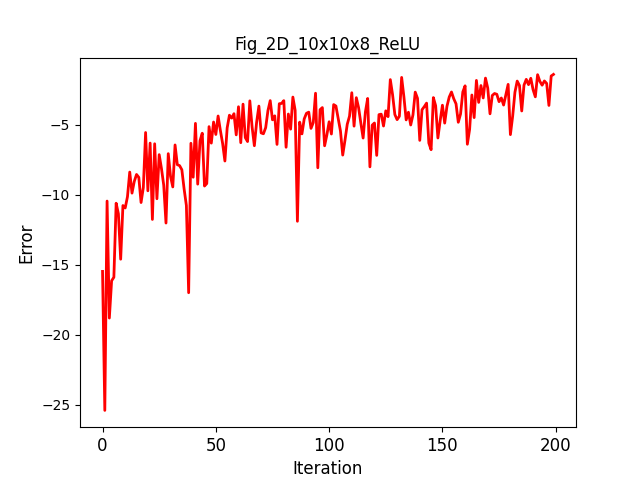
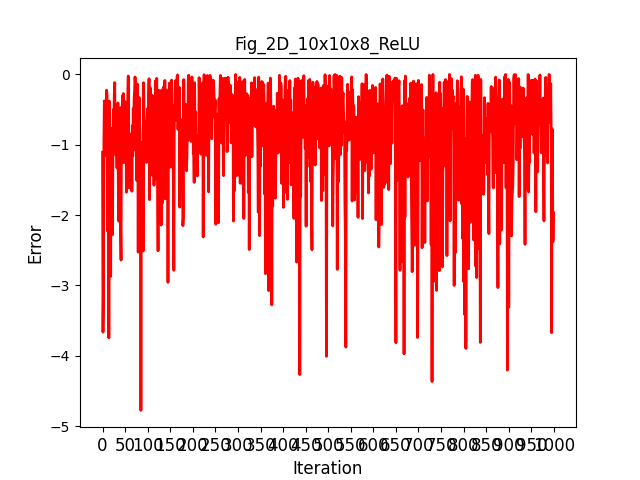
minor

diff --git a/genetic_algorithm.py b/genetic_algorithm.py
@@ -38,7 +38,7 @@ def select_mating_pool(pop, fitness, num_parents):
 		except IndexError:
 			max_fitness_idx = 0
 		parents[parent_num, :] = pop[max_fitness_idx, :]
-		fitness[max_fitness_idx] = -1.0e12
+		fitness[max_fitness_idx] = -1.0e12		# the worst fitness value
 	return parents
 
 def crossover(parents, offspring_size):
@@ -48,9 +48,9 @@ def crossover(parents, offspring_size):
 
 	for k in range(offspring_size[0]):
 		# Index of the first parent to mate.
-		parent1_idx = k%parents.shape[0]
+		parent1_idx = k % parents.shape[0]
 		# Index of the second parent to mate.
-		parent2_idx = (k+1)%parents.shape[0]
+		parent2_idx = (k + 1) % parents.shape[0]
 		# The new offspring will have its first half of its genes taken from the first parent.
 		offspring[k, 0:crossover_point] = parents[parent1_idx, 0:crossover_point]
 		# The new offspring will have its second half of its genes taken from the second parent.

diff --git a/evolve_Neuromancer.py b/evolve_Neuromancer.py
@@ -8,7 +8,7 @@ import time
 # Genetic algorithm parameters:
 soln_per_pop = 12				# mating pool size (= # parents)
 num_parents_mating = 6			# population size
-num_generations = 200
+num_generations = 1000
 mutation_percent = 1			# mutation rate
 
 method = "ReLU"					# neuron's activation function
@@ -21,7 +21,7 @@ import os
 
 if input("Read old weights file? (enter for yes, 'n' to start new)") != 'n':
 	# open the latest weights file:
-	list_of_files = glob.glob('/home/yky/python/neuromancer/weights_*')
+	list_of_files = glob.glob('/home/yky/neuromancer/weights_*')
 	latest_file = max(list_of_files, key=os.path.getctime)
 	print("Loading file:", latest_file)
 	f = open(latest_file, "rb")

diff --git a/ANN.py b/ANN.py
@@ -77,6 +77,7 @@ def threshold2(y):
 	"""
 
 # ***** This miraculously good-looking function was found by serendipity
+# The penalty is always a negative number, its best value is 0
 def joint_penalty(x, y):
 	k = 30.0			# "Steepness"
 	return numpy.exp(-k * (x **2 + y **2)) - numpy.exp(-2.0 * k * x * y)
@@ -102,7 +103,7 @@ def predict_outputs(weights_mat, activation="ReLU"):
 			y0 = sigmoid(y0)
 	x = x0
 	y = y0
-	for i in range(100):
+	for i in range(10):
 		x0 = x
 		y0 = y
 		x = perturb(x0)
